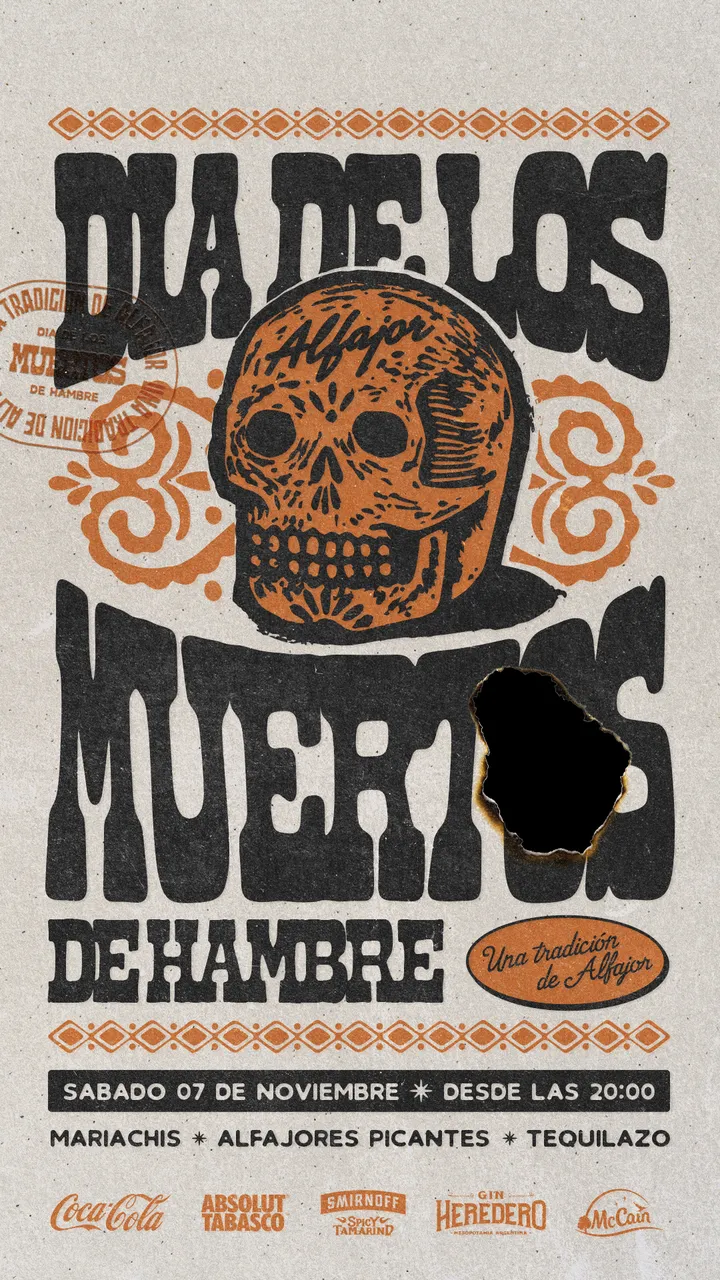
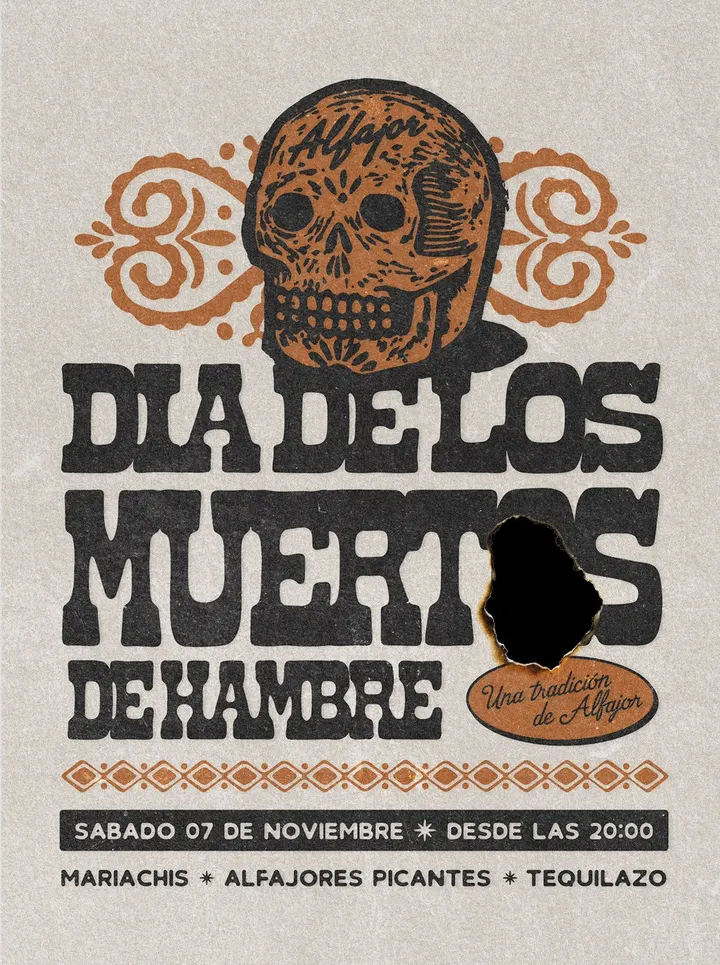
Muertos de hambre: flyer nuevo (3:4) en el hero

diff --git a/src/components/muertos/MarcaMuertos.tsx b/src/components/muertos/MarcaMuertos.tsx
@@ -62,12 +62,12 @@ export function HeroMuertos({ arriba, abajo }: { arriba: ReactNode; abajo: React
                 <img
                     src="/muertos/flyer-720.webp"
                     srcSet="/muertos/flyer-720.webp 720w, /muertos/flyer.webp 1080w"
-                    sizes="(min-width: 768px) 50vh, 100vw"
+                    sizes="(min-width: 768px) 70vh, 100vw"
                     width={1080}
-                    height={1920}
+                    height={1440}
                     alt="Día de los muertos de hambre. Una tradición de Alfajor. Sábado 07 de noviembre desde las 20:00: mariachis, alfajores picantes y tequilazo."
                     fetchPriority="high"
-                    className="muertos-hueco mt-1 h-[min(calc(100svh-200px),177.8vw)] w-auto max-w-full [mask-composite:intersect] [mask-image:linear-gradient(to_bottom,transparent,#000_3%,#000_95%,transparent),linear-gradient(to_right,transparent,#000_3%,#000_97%,transparent)] [-webkit-mask-composite:source-in] [-webkit-mask-image:linear-gradient(to_bottom,transparent,#000_3%,#000_95%,transparent),linear-gradient(to_right,transparent,#000_3%,#000_97%,transparent)] md:mt-0 md:h-[min(calc(100svh-110px),880px)] md:max-w-none"
+                    className="muertos-hueco mt-1 h-[min(calc(100svh-200px),133.4vw)] w-auto max-w-full [mask-composite:intersect] [mask-image:linear-gradient(to_bottom,transparent,#000_3%,#000_95%,transparent),linear-gradient(to_right,transparent,#000_3%,#000_97%,transparent)] [-webkit-mask-composite:source-in] [-webkit-mask-image:linear-gradient(to_bottom,transparent,#000_3%,#000_95%,transparent),linear-gradient(to_right,transparent,#000_3%,#000_97%,transparent)] md:mt-0 md:h-[min(calc(100svh-110px),880px)] md:max-w-none"
                 />
                 <div className="mt-2 w-full px-5 text-center md:mt-0 md:w-auto md:max-w-sm md:px-0 md:text-left" style={{ '--d': '200ms' } as CSSProperties}>
                     <p className="font-twin hidden text-[11px] text-[#d3532b] md:block">Delivery y take away</p>
